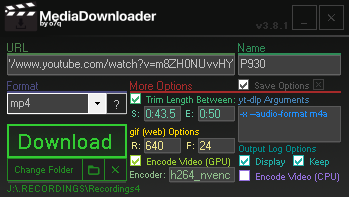
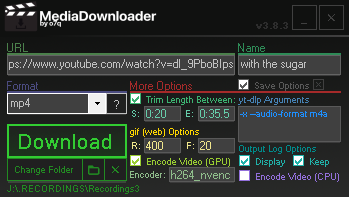
Update pictures

diff --git a/assets/pages/index/files/scripts.js b/assets/pages/index/files/scripts.js
@@ -1,6 +1,6 @@
 function bodyInit()
 {
-    var ver = "v3.8.2.0";
+    var ver = "v3.8.3.0";
 
     document.getElementById("dlID").href = "https://github.com/o7q/MediaDownloader/releases/download/" + ver + "/MediaDownloader." + ver + ".zip";
     document.getElementById("dlID").innerHTML = "Download " + ver;
